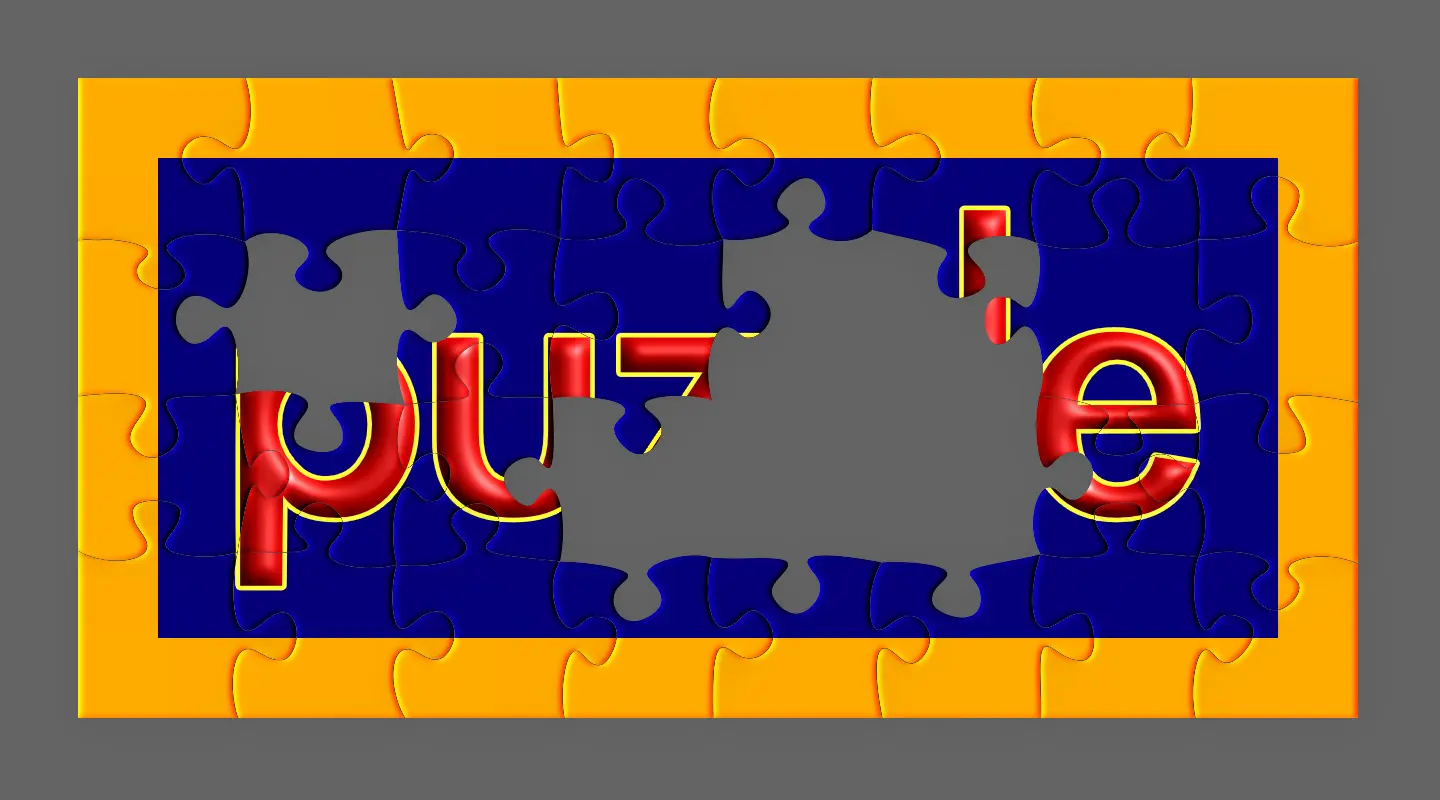
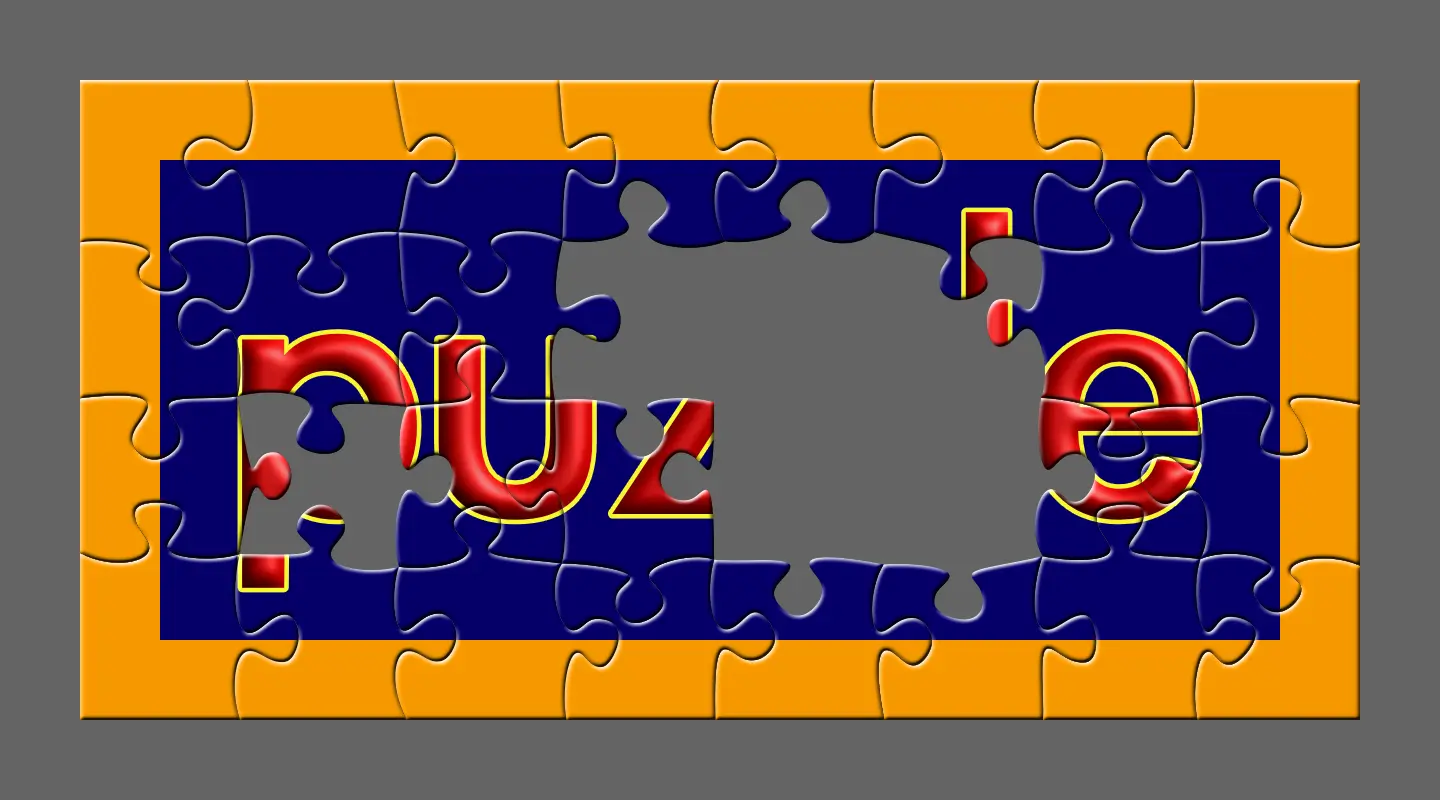
Improve bevel effect handling for images with bright areas
Improved the ImageMagick bevel effect by using refined commands, resulting in a significantly better appearance, especially for photos with bright or white areas.
Updated example A with new photos to clearly demonstrate the improvements in handling highlights.

Changed region(s): [[0.0312, 0.0938, 0.9688, 0.9062]]

diff --git a/README.md b/README.md
@@ -131,7 +131,7 @@ Make a puzzle with a default number of pieces (minimum 25 and maximum 40). Blue 
 
 ### Apply ImageMagick® beveling:
 
-    python PlayPuzzle.py --photo photoA.jpg --pz 100 --seed 43 -c b
+    python PlayPuzzle.py --photo photoF.jpg --pz 100 --seed 43 -c b
 
     Puzzle piece width-to-height ratio: 1.0416666666666665
     Make a puzzle with 30 (6x5) parts!
@@ -147,7 +147,7 @@ Make a puzzle with a default number of pieces (minimum 25 and maximum 40). Blue 
 
 ### Apply manual beveling:
 
-    python PlayPuzzle.py --photo photoA.jpg --pz 100 --seed 43 -c b -cb
+    python PlayPuzzle.py --photo photoF.jpg --pz 100 --seed 43 -c b -cb
 
     Puzzle piece width-to-height ratio: 1.0416666666666665
     Make a puzzle with 30 (6x5) parts!
@@ -320,7 +320,7 @@ Run the following command in the directory containing the Dockerfile:
 
 Make 80% of the puzzle
 
-    PlayPuzzle.py --minparts 30 --maxparts 200 --photo photoE.png --pz 80
+    python PlayPuzzle.py --minparts 30 --maxparts 200 --photo photoE.png --pz 80
 
     Puzzle piece width-to-height ratio: 1.0045172219085263
     Make a puzzle with 99 (11x9) parts!
@@ -357,21 +357,19 @@ The beveling in [bevel.zsh](./bevel.zsh) is performed using one of two functions
 Original code:
 
 ```zsh
-imagemagick_bevel () 
+imagemagick_bevel ()
 {
-    for png_file in $tsdir/**/img_puzzle_*.png; do
-        bevel_tmp_png_file="${png_file:r}_tmp_bevel.png"
-        bevel_png_file="${png_file:r}_bevel.png"
+    for png_file in "$tsdir"/**/img_puzzle_*.png; do
+        local file_path_base_name="${png_file:r}"
+        local out_file="${file_path_base_name}_bevel.png"
 
-        convert "$png_file" \
-            \( +clone -alpha Extract -blur 0x3 -shade 170x40 -alpha On -normalize +level 5% \
-            +clone +swap -compose overlay -composite \) \
-            -compose In -composite "$bevel_tmp_png_file"
+        magick "$png_file" -alpha extract "${file_path_base_name}_mask.png"
 
-        convert "$bevel_tmp_png_file" \( +clone -background black -shadow 5x20+2+2 \) +swap \
-            -background none -layers merge +repage -gravity Center -extent $(identify -format "%wx%h" "$png_file") "$bevel_png_file"
-        
-        rm "$bevel_tmp_png_file"
+        magick "${file_path_base_name}_mask.png" \( +clone -blur 0x2 -shade 120x20 -contrast-stretch 0% +sigmoidal-contrast 2x50% -fill grey70 -colorize 10%  \) +swap -alpha Off -compose CopyOpacity -composite "${file_path_base_name}_overlay.png"
+
+        magick "${png_file}" "${file_path_base_name}_overlay.png" -compose Hardlight -composite "${file_path_base_name}_bevel.png"
+
+        rm "${file_path_base_name}_mask.png" "${file_path_base_name}_overlay.png"
     done
 }
 ```
@@ -379,21 +377,24 @@ imagemagick_bevel ()
 Modified code:
 
 ```zsh
-imagemagick_bevel () 
+imagemagick_bevel ()
 {
-    for png_file in $tsdir/**/img_puzzle_*.png; do
-        bevel_png_file="${png_file:r}_bevel.png"
+    for png_file in "$tsdir"/**/img_puzzle_*.png; do
+        local file_path_base_name="${png_file:r}"
+        local out_file="${file_path_base_name}_bevel.png"
 
-        convert "$png_file" \
-            \( +clone -alpha Extract -blur 0x5 -shade 170x40 -alpha On -normalize +level 5% \
-            +clone +swap -compose overlay -composite \) \
-            -compose In -composite "$bevel_png_file"
+        magick "$png_file" -alpha extract "${file_path_base_name}_mask.png"
+
+        magick "${file_path_base_name}_mask.png" \( +clone -blur 0x3 -shade 120x20 -contrast-stretch 0% +sigmoidal-contrast 2x50% -fill grey50 -colorize 10%  \) +swap -alpha Off -compose CopyOpacity -composite "${file_path_base_name}_overlay.png"
+
+        magick "${png_file}" "${file_path_base_name}_overlay.png" -compose Hardlight -composite "${file_path_base_name}_bevel.png"
+
+        rm "${file_path_base_name}_mask.png" "${file_path_base_name}_overlay.png"
     done
 }
 ```
 
-1. The second convert command that applies a shadow effect has been deleted. This change will keep only the original beveled appearance without the additional shadow overlay, making the final image appear less deep or three-dimensional.
-2. In the first convert command, to demonstrate a possible change, we adjust the blur or shade settings through -blur 0x5 that increase the blurriness of the bevel effect.
+See https://usage.imagemagick.org/transform/#shade_blur for more information about customization options.
  
 Hence [bevel.zsh](./bevel.zsh) setup provides flexibility, enabling users to either quickly apply a standardized bevel or to create a custom look by adjusting the script or using external tools.
 
@@ -440,6 +441,10 @@ Depending on the number and size of the images, the batch processing might take 
 ## ImageMagick
 
 - https://imagemagick.org
+
+### ImageMagick - Bevel
+
+- https://usage.imagemagick.org/transform/#shade_blur
 
 ## Affinity Photo
 
